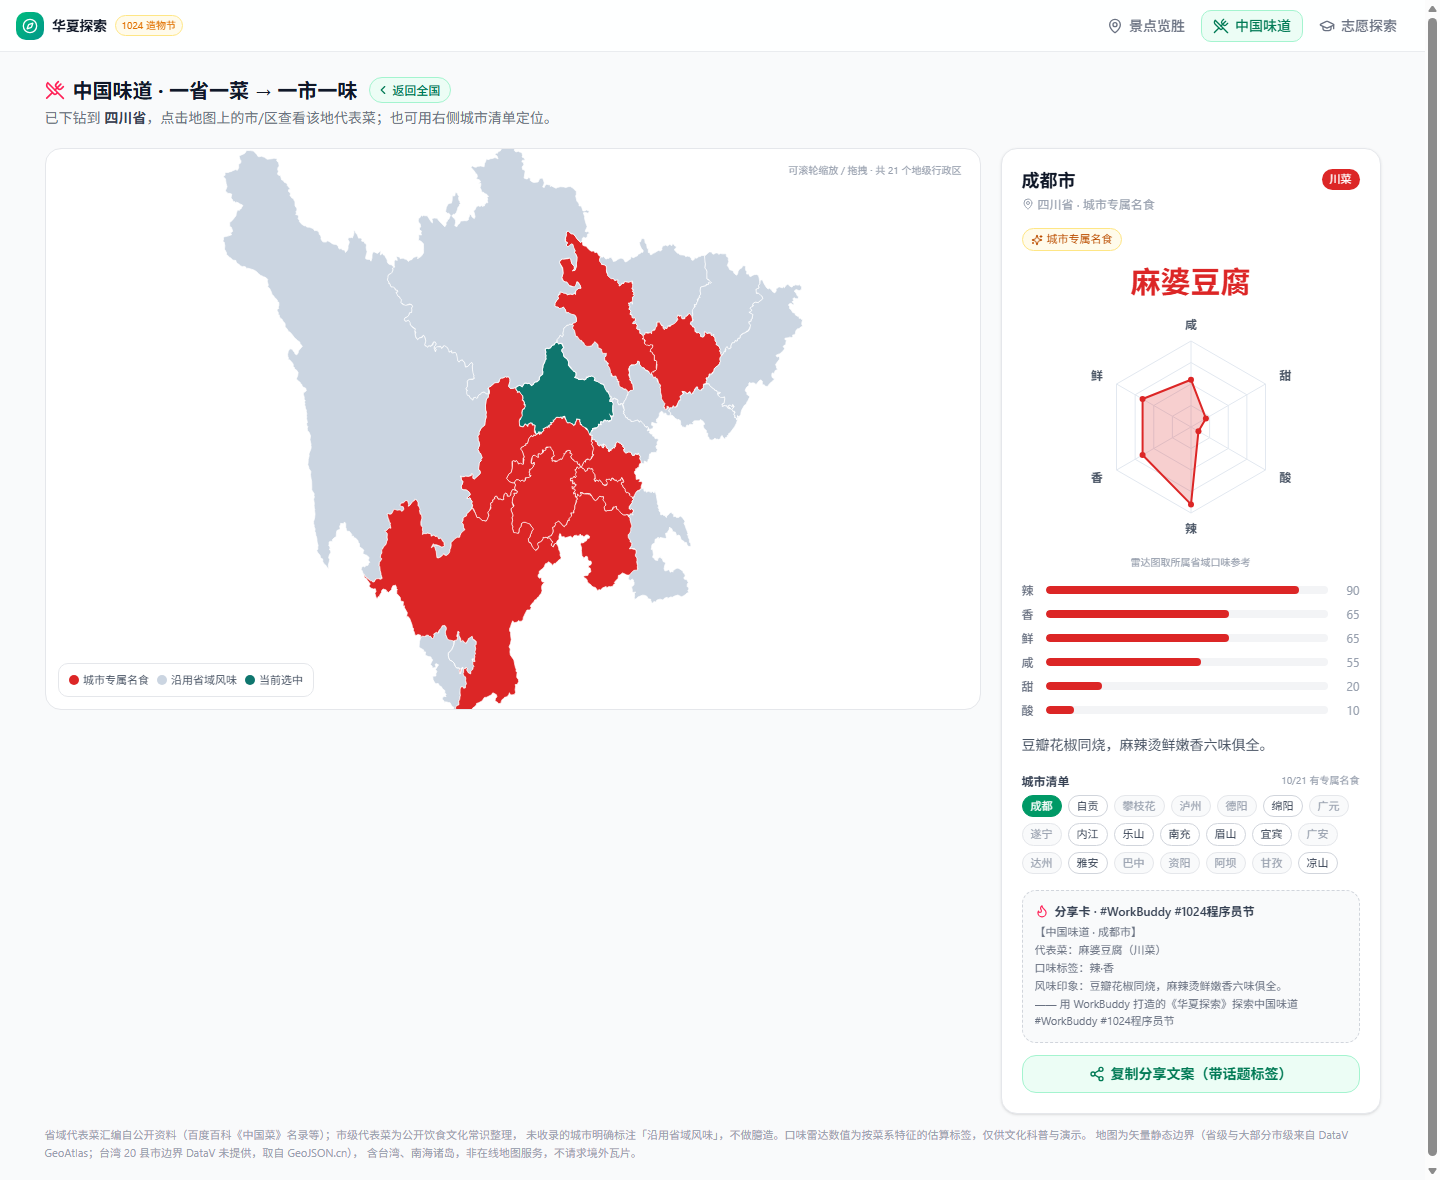
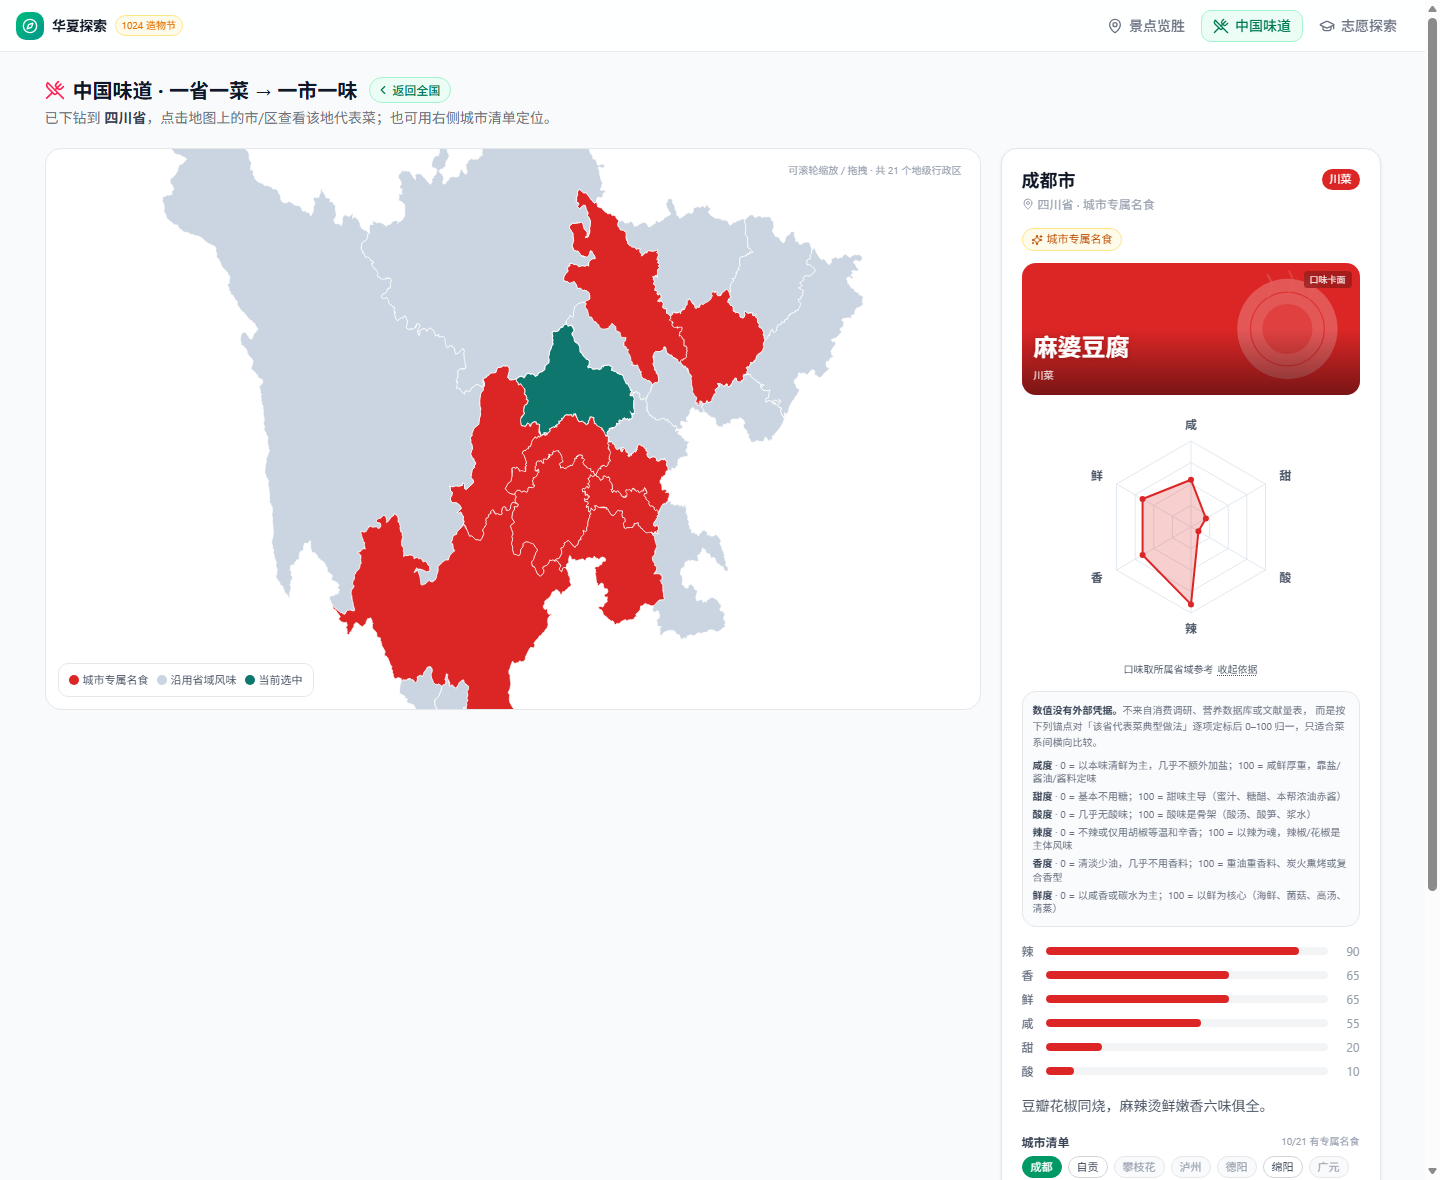
feat(food): keep map zoom on selection, disclose taste rubric, add dish visual card
Selecting a city rebuilt the chart with notMerge, which reset roam back to the
initial boundingCoords. Preserve the current zoom/center when the map name is
unchanged, so the view stays put on selection.

The radar showed 0-100 taste scores with no stated basis. They are a
self-assessed rubric, not survey or nutrition data, so the panel now exposes
the scoring anchors for all six dimensions on demand.

No dish photography could be sourced: Wikimedia and jsDelivr are unreachable
here, the Unsplash/Pexels keys are unset, and the public Chinese-dish datasets
are research-licensed. Added a photo manifest plus a locally generated dish
card (cuisine colour blended with the dominant taste) so the slot is filled
honestly and swapping in real photos is a data-only change.

diff --git a/toys/spot-visual/src/components/food/dish-visual.tsx b/toys/spot-visual/src/components/food/dish-visual.tsx
@@ -1,0 +1,106 @@
+'use client';
+
+import { useMemo } from 'react';
+import type { TasteKey } from '@/lib/food-data';
+import { getDishPhoto } from '@/lib/dish-photo';
+import { cn } from '@/lib/utils';
+
+const TASTE_COLOR: Record<TasteKey, string> = {
+  咸: '#92400E', 甜: '#DB2777', 酸: '#D97706',
+  辣: '#DC2626', 香: '#B45309', 鲜: '#0891B2',
+};
+
+export interface DishVisualProps {
+  dish: string;
+  cuisine: string;
+  cuisineColor: string;
+  taste: Record<TasteKey, number>;
+  /** 高度，默认 132 */
+  height?: number;
+}
+
+/**
+ * 菜品视觉卡。
+ * 有真实照片时渲染照片（带署名），否则按「菜系色 + 主导口味色」生成一张本地卡面，
+ * 明确标注「口味卡面」而不是伪装成实拍。生成过程零网络、零外部依赖。
+ */
+export function DishVisual({ dish, cuisine, cuisineColor, taste, height = 132 }: DishVisualProps) {
+  const photo = getDishPhoto(dish);
+
+  const { c1, c2, angle, plateX } = useMemo(() => {
+    const sorted = (Object.keys(taste) as TasteKey[]).sort((a, b) => taste[b] - taste[a]);
+    const top = sorted[0];
+    // 主色取菜系色，辅色取主导口味色，二者混合出层次
+    const a = cuisineColor;
+    const b = TASTE_COLOR[top] ?? cuisineColor;
+    // 用菜名做确定性扰动，避免所有卡面长一样
+    let h = 0;
+    for (let i = 0; i < dish.length; i++) h = (h * 31 + dish.charCodeAt(i)) % 997;
+    return {
+      c1: a,
+      c2: b,
+      angle: 100 + (h % 80),
+      plateX: 66 + (h % 18),
+    };
+  }, [dish, cuisineColor, taste]);
+
+  if (photo) {
+    return (
+      <figure className="relative w-full rounded-xl overflow-hidden bg-gray-100" style={{ height }}>
+        {/* eslint-disable-next-line @next/next/no-img-element */}
+        <img
+          src={photo.src}
+          alt={dish}
+          className="w-full h-full object-cover"
+          style={{ objectPosition: photo.focus ?? '50% 50%' }}
+          loading="lazy"
+        />
+        <div className="absolute inset-x-0 bottom-0 h-2/3 bg-gradient-to-t from-black/70 to-transparent" />
+        <figcaption className="absolute left-3 bottom-2 right-3 flex items-end justify-between gap-2">
+          <span className="text-white font-bold text-xl leading-tight drop-shadow">{dish}</span>
+          {photo.credit && (
+            <span className="text-[9px] text-white/70 shrink-0">{photo.credit}</span>
+          )}
+        </figcaption>
+      </figure>
+    );
+  }
+
+  return (
+    <figure
+      className="relative w-full rounded-xl overflow-hidden"
+      style={{ height, background: `linear-gradient(${angle}deg, ${c1} 0%, ${c2} 100%)` }}
+    >
+      {/* 盘面 */}
+      <svg
+        className="absolute inset-y-0 right-0 h-full opacity-20"
+        viewBox="0 0 200 200"
+        preserveAspectRatio="xMidYMid slice"
+        aria-hidden
+      >
+        <circle cx={plateX + 30} cy="104" r="70" fill="#fff" fillOpacity="0.75" />
+        <circle cx={plateX + 30} cy="104" r="70" fill="none" stroke="#fff" strokeWidth="1.5" strokeOpacity="0.5" />
+        <circle cx={plateX + 30} cy="104" r="54" fill="none" stroke={c2} strokeWidth="1.5" strokeOpacity="0.8" />
+        <path d={`M${plateX + 8} 48 q 10 -16 0 -30`} stroke="#fff" strokeWidth="3" fill="none" strokeOpacity="0.7" strokeLinecap="round" />
+        <path d={`M${plateX + 36} 42 q 10 -16 0 -30`} stroke="#fff" strokeWidth="3" fill="none" strokeOpacity="0.5" strokeLinecap="round" />
+        <path d={`M${plateX + 64} 50 q 10 -16 0 -30`} stroke="#fff" strokeWidth="3" fill="none" strokeOpacity="0.35" strokeLinecap="round" />
+      </svg>
+      <div className="absolute inset-0 bg-gradient-to-t from-black/45 via-transparent to-transparent" />
+
+      <figcaption className="absolute left-3 bottom-2.5 right-3">
+        <span
+          className={cn(
+            'block text-white font-bold leading-tight drop-shadow-sm',
+            dish.length > 6 ? 'text-lg' : 'text-2xl',
+          )}
+        >
+          {dish}
+        </span>
+        <span className="text-[10px] text-white/80">{cuisine}</span>
+      </figcaption>
+      <span className="absolute right-2 top-2 text-[9px] text-white/85 bg-black/25 rounded px-1.5 py-0.5 backdrop-blur-sm">
+        口味卡面
+      </span>
+    </figure>
+  );
+}

diff --git a/toys/spot-visual/src/app/food/page.tsx b/toys/spot-visual/src/app/food/page.tsx
@@ -4,10 +4,11 @@ import { useState, useMemo, useEffect, useCallback } from 'react';
 import { motion, AnimatePresence } from 'framer-motion';
 import { Share2, Check, UtensilsCrossed, MapPin, Flame, ChevronLeft, Loader2, Sparkles, Layers } from 'lucide-react';
 import type { EChartsOption } from 'echarts';
-import { PROVINCE_FOODS, CUISINE_COLORS, TASTE_KEYS, getProvince } from '@/lib/food-data';
+import { PROVINCE_FOODS, CUISINE_COLORS, TASTE_KEYS, TASTE_DIMENSIONS, getProvince } from '@/lib/food-data';
 import { resolveCityFood } from '@/lib/food-city';
 import { loadCityGeo, getCachedCityGeo, type CityGeo } from '@/lib/city-geo';
 import { TasteRadar } from '@/components/food/taste-radar';
+import { DishVisual } from '@/components/food/dish-visual';
 import ChinaMap, { type MapRegistration } from '@/components/map/china-map';
 import { cn } from '@/lib/utils';
 
@@ -31,6 +32,7 @@ export default function FoodPage() {
   const [cityLoading, setCityLoading] = useState(false);
   const [cityErr, setCityErr] = useState<string | null>(null);
   const [copied, setCopied] = useState(false);
+  const [showBasis, setShowBasis] = useState(false);
 
   const selected = getProvince(provCode) ?? PROVINCE_FOODS[0];
   const cuisineColor = CUISINE_COLORS[selected.cuisine] ?? '#64748B';
@@ -382,16 +384,46 @@ export default function FoodPage() {
                 </div>
               )}
 
-              <div className="text-center mb-2">
-                <div className="text-3xl font-bold" style={{ color: panelColor }}>{panel.dish}</div>
+              <div className="mb-3">
+                <DishVisual
+                  dish={panel.dish}
+                  cuisine={panel.cuisine}
+                  cuisineColor={panelColor}
+                  taste={selected.taste}
+                />
               </div>
 
-              <div className="flex justify-center mb-4">
+              <div className="flex justify-center mb-2">
                 <TasteRadar taste={selected.taste} color={panelColor} size={240} />
               </div>
-              <p className="text-[10px] text-center text-gray-400 -mt-2 mb-3">
-                {panel.isCity ? '雷达图取所属省域口味参考' : '口味雷达为按菜系特征的估算标签'}
-              </p>
+
+              {/* 口径披露：数值无外部统计来源，仅为本项目自评标尺 */}
+              <div className="mb-3 text-center">
+                <button
+                  onClick={() => setShowBasis((v) => !v)}
+                  className="inline-flex items-center gap-1 text-[10px] text-gray-400 hover:text-gray-600 transition-colors"
+                >
+                  {panel.isCity ? '口味取所属省域参考' : '口味雷达为本项目自评口径'}
+                  <span className="underline decoration-dotted underline-offset-2">{showBasis ? '收起依据' : '依据？'}</span>
+                </button>
+              </div>
+              {showBasis && (
+                <div className="mb-4 rounded-xl border border-gray-200 bg-gray-50/80 p-2.5 text-left">
+                  <p className="text-[10px] text-gray-500 leading-relaxed mb-2">
+                    <b className="text-gray-700">数值没有外部凭据。</b>不来自消费调研、营养数据库或文献量表，
+                    而是按下列锚点对「该省代表菜典型做法」逐项定标后 0–100 归一，只适合菜系间横向比较。
+                  </p>
+                  <ul className="space-y-1">
+                    {TASTE_DIMENSIONS.map((d) => (
+                      <li key={d.key} className="text-[10px] leading-snug text-gray-500">
+                        <span className="font-semibold text-gray-700">{d.name}</span>
+                        <span className="text-gray-400"> · </span>
+                        0 = {d.low}；100 = {d.high}
+                      </li>
+                    ))}
+                  </ul>
+                </div>
+              )}
 
               {/* taste bars */}
               <div className="space-y-2 mb-4">

diff --git a/toys/spot-visual/src/lib/food-data.ts b/toys/spot-visual/src/lib/food-data.ts
@@ -17,6 +17,35 @@ export interface ProvinceFood {
 
 export const TASTE_KEYS: TasteKey[] = ['咸', '甜', '酸', '辣', '香', '鲜'];
 
+/**
+ * ── 口味雷达的口径声明（重要）────────────────────────────────────
+ * 这里的 0–100 数值**没有外部统计数据来源**，不来自任何消费调研或文献量表。
+ * 它是本项目的自评口径：作者按下面每个维度的三个锚点（0 / 50 / 100 分别代表什么），
+ * 对该省「代表菜」的典型做法逐项定标，再做 0–100 归一。
+ *
+ * 因此它只适合做**菜系之间的相对比较**，不能当作营养学、消费量或官方统计指标引用。
+ * 之所以仍然展示，是因为它能把"川菜辣、苏菜甜、黔菜酸"这类定性描述变成可横向比较的形状；
+ * 定标口径公开，任何人都能按同样的锚点复核或改写。
+ * ──────────────────────────────────────────────────────────────
+ */
+export interface TasteDimension {
+  key: TasteKey;
+  name: string;
+  low: string;
+  mid: string;
+  high: string;
+}
+
+export const TASTE_DIMENSIONS: TasteDimension[] = [
+  { key: '咸', name: '咸度', low: '以本味清鲜为主，几乎不额外加盐', mid: '常规调味水平', high: '咸鲜厚重，靠盐/酱油/酱料定味' },
+  { key: '甜', name: '甜度', low: '基本不用糖', mid: '少量糖提鲜上色', high: '甜味主导（蜜汁、糖醋、本帮浓油赤酱）' },
+  { key: '酸', name: '酸度', low: '几乎无酸味', mid: '醋或酸菜作提味配角', high: '酸味是骨架（酸汤、酸笋、浆水）' },
+  { key: '辣', name: '辣度', low: '不辣或仅用胡椒等温和辛香', mid: '常规辣度，辣椒为调味之一', high: '以辣为魂，辣椒/花椒是主体风味' },
+  { key: '香', name: '香度', low: '清淡少油，几乎不用香料', mid: '常规炝锅、葱姜蒜提香', high: '重油重香料、炭火熏烤或复合香型' },
+  { key: '鲜', name: '鲜度', low: '以咸香或碳水为主', mid: '汤鲜料足', high: '以鲜为核心（海鲜、菌菇、高汤、清蒸）' },
+];
+
+
 export const CUISINE_COLORS: Record<string, string> = {
   鲁菜: '#C2410C', 川菜: '#DC2626', 粤菜: '#0EA5E9', 闽菜: '#0891B2',
   苏菜: '#D97706', 浙菜: '#16A34A', 湘菜: '#EA580C', 徽菜: '#65A30D',

diff --git a/toys/spot-visual/src/components/map/china-map.tsx b/toys/spot-visual/src/components/map/china-map.tsx
@@ -19,6 +19,15 @@ export interface MapRegistration {
   geo: unknown;
 }
 
+/** 从 option 里取出当前使用的 map 名（map series 或 geo 组件） */
+function mapNameOf(option: EChartsOption): string | undefined {
+  const series = Array.isArray(option.series) ? (option.series as Record<string, unknown>[]) : [];
+  const fromSeries = series.find((s) => typeof s?.map === 'string')?.map as string | undefined;
+  if (fromSeries) return fromSeries;
+  const geo = option.geo as { map?: string } | undefined;
+  return geo?.map;
+}
+
 export interface ChinaMapProps {
   option: EChartsOption;
   /** 点击地图元素（省份区块 / 市级区块 / 散点）时回调，参数为 ECharts 事件对象 */
@@ -68,7 +77,26 @@ export default function ChinaMap({ option, onSelect, maps, className, height = '
         registeredMaps.add(m.name);
       }
     }
-    chartRef.current?.setOption(option, { notMerge: true });
+    const chart = chartRef.current;
+    if (!chart) return;
+
+    // 同一张地图上的数据更新（如选中某个市）会走 notMerge 全量重建，
+    // 那样会把用户已经缩放/拖拽的视野重置回初始 boundingCoords。
+    // 这里先取出当前 roam 状态，再回灌到新 option，保证「选择后视野不动」。
+    const nextMap = mapNameOf(option);
+    const prev = chart.getOption() as { series?: Array<{ map?: string; zoom?: number; center?: number[] }> } | undefined;
+    const prevSeries = prev?.series?.[0];
+    let next = option;
+    if (nextMap && prevSeries?.map === nextMap && (prevSeries.zoom != null || prevSeries.center != null)) {
+      const series = (Array.isArray(option.series) ? option.series : []) as Record<string, unknown>[];
+      next = {
+        ...option,
+        series: series.map((s, i) =>
+          i === 0 ? { ...s, zoom: prevSeries.zoom, center: prevSeries.center } : s,
+        ),
+      } as EChartsOption;
+    }
+    chart.setOption(next, { notMerge: true });
   }, [option, maps]);
 
   return <div ref={elRef} className={className} style={{ width: '100%', height }} />;

diff --git a/toys/spot-visual/src/lib/dish-photo.ts b/toys/spot-visual/src/lib/dish-photo.ts
@@ -1,0 +1,34 @@
+// ════════════════════════════════════════════════════════════════════════
+// 菜品图片接入位
+//
+// 现状：暂无真实菜品照片。
+// 已核查的可选图源与结论：
+// - Wikimedia Commons / upload.wikimedia.org：本机与沙箱网络不可达（HTTP 000）
+// - Unsplash / Pexels 搜索 API：接口可达（api.unsplash.com / api.pexels.com），
+//   但项目未配置 UNSPLASH_ACCESS_KEY / PEXELS_API_KEY，且其图库对「麻婆豆腐」
+//   这类具体中国菜品的命中率很低，硬套会造成「图不对菜」的错误信息
+// - GitHub 上的中文菜品数据集（ChineseFoodNet / Food-530 等）：SATA 等研究许可，
+//   体积 20GB 级，不提供可直接引用的图片直链，不适合随前端发布
+//
+// 因此这里只保留数据契约：往 DISH_PHOTOS 里按菜名补一条 { src, credit, license }，
+// 详情面板就会自动把卡面替换为真实照片，无需改动组件逻辑。
+// src 建议放 public/dishes/ 下的本地文件，避免依赖外网与防盗链。
+// ════════════════════════════════════════════════════════════════════════
+
+export interface DishPhoto {
+  /** 图片地址，建议 /dishes/xxx.jpg（本地静态资源） */
+  src: string;
+  /** 作者 / 来源，用于署名（CC-BY-SA 等协议要求） */
+  credit?: string;
+  /** 许可协议，如 CC0 / CC-BY-SA-4.0 */
+  license?: string;
+  /** 焦点位置，用于 object-position，默认 50% 50% */
+  focus?: string;
+}
+
+/** 菜名 → 照片。为空即全部走本地生成卡面（当前状态）。 */
+export const DISH_PHOTOS: Record<string, DishPhoto> = {};
+
+export function getDishPhoto(dish: string): DishPhoto | undefined {
+  return DISH_PHOTOS[dish];
+}
